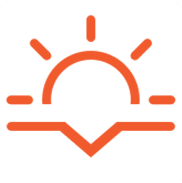
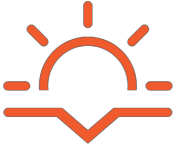
added js for images and removed dummy text

diff --git a/frontend/test/index.html b/frontend/test/index.html
@@ -9,19 +9,15 @@
 	<body>
 		<div class="main-top">
 			<div class="left">
-				<p class="temperature" id="temperature">14°C</p>
-				<p class="temperatur-feels-like" id="temperatur-feels-like">
-					Gefühlt: 14°C
-				</p>
-				<p class="weather-description" id="weather-description">
-					Teilweise bewölkt
-				</p>
-				<p class="humidity" id="humidity">Luftfeuchtigkeit: 10%</p>
-				<p class="cloudy" id="cloudy">Wolken: 10%</p>
-				<p class="uv" id="uv">UV: 100%</p>
+				<p class="temperature" id="temperature"></p>
+				<p class="temperatur-feels-like" id="temperatur-feels-like"></p>
+				<p class="weather-description" id="weather-description"></p>
+				<p class="humidity" id="humidity"></p>
+				<p class="cloudy" id="cloudy"></p>
+				<p class="uv" id="uv"></p>
 			</div>
 			<div class="right">
-				<h1 class="city" id="city">Hattingen</h1>
+				<h1 class="city" id="city"></h1>
 				<p class="last-update" id="last-update">
 					<svg
 						stroke="currentColor"
@@ -39,7 +35,6 @@
 							d="M1.7507,16.0022 C3.3517,20.0982 7.3367,23.0002 11.9997,23.0002 C18.0747,23.0002 22.9997,18.0752 22.9997,12.0002 M22.2497,7.9982 C20.6487,3.9012 16.6627,1.0002 11.9997,1.0002 C5.9247,1.0002 0.9997,5.9252 0.9997,12.0002 M8.9997,16.0002 L0.9997,16.0002 L0.9997,24.0002 M22.9997,0.0002 L22.9997,8.0002 L14.9997,8.0002"
 						></path>
 					</svg>
-					12:00
 				</p>
 				<p class="sunrise" id="sunrise">
 					<svg
@@ -62,7 +57,6 @@
 						<line x1="23" y1="22" x2="1" y2="22"></line>
 						<polyline points="8 6 12 2 16 6"></polyline>
 					</svg>
-					12:00
 				</p>
 				<p class="sunset" id="sunset">
 					<svg
@@ -85,12 +79,11 @@
 						<line x1="23" y1="22" x2="1" y2="22"></line>
 						<polyline points="16 5 12 9 8 5"></polyline>
 					</svg>
-					12:00
 				</p>
 			</div>
 		</div>
 		<script>
-			async function fetchText() {
+			async function fetchCurrentWeather() {
 				let response = await fetch('http://127.0.0.1:8000/current_weather');
 
 				console.log(response.status, response.statusText); // 200 OK
@@ -101,17 +94,45 @@
 					// convert var data to json object
 					data = JSON.parse(data);
 					console.log(data);
-					document.getElementById('city').innerHTML = data.city;
-					document.getElementById('temperature').innerHTML = data.temperature;
-					document.getElementById('temperatur-feels-like').innerHTML =
-						data.temperatur_feels_like;
-					document.getElementById('weather-description').innerHTML =
+					document.getElementById('city').textContent = data.city;
+					document.getElementById('temperature').textContent =
+						'Temperatur: ' + data.temperature + '°C';
+					document.getElementById('temperatur-feels-like').textContent =
+						'Gefühlt: ' + data.temperatur_feels_like + '°C';
+					document.getElementById('weather-description').textContent =
 						data.weather_description;
-					document.getElementById('humidity').innerHTML = data.humidity;
-					document.getElementById('cloudy').innerHTML = data.cloudy;
-					document.getElementById('last-update').innerHTML = data.last_update;
-					document.getElementById('sunrise').innerHTML = data.sunrise;
-					document.getElementById('sunset').innerHTML = data.sunset;
+					document.getElementById('humidity').textContent =
+						'Luftfeuchtigkeit: ' + data.humidity + '%';
+					document.getElementById('cloudy').textContent =
+						'Wolken: ' + data.cloudy + '%';
+					document.getElementById('last-update').textContent =
+						' ' + data.last_update;
+					document.getElementById('sunrise').textContent = ' ' + data.sunrise;
+					document.getElementById('sunset').textContent = ' ' + data.sunset;
+
+					var img = document.createElement('img');
+					img.src =
+						'C:/Users/Ludo/Desktop/weather forecast/resources/sun icons/sync.png';
+					var div = document.getElementById('last-update');
+					div.prepend(img);
+					img.style.height = '20px';
+					img.style.width = 'auto';
+
+					var img = document.createElement('img');
+					img.src =
+						'C:/Users/Ludo/Desktop/weather forecast/resources/sun icons/Ebene 2.png';
+					var div = document.getElementById('sunrise');
+					div.prepend(img);
+					img.style.height = 'auto';
+					img.style.width = '24px';
+
+					var img = document.createElement('img');
+					img.src =
+						'C:/Users/Ludo/Desktop/weather forecast/resources/sun icons/Ebene 1.png';
+					var div = document.getElementById('sunset');
+					div.prepend(img);
+					img.style.height = 'auto';
+					img.style.width = '24px';
 				}
 			}
 			async function fetchUv() {
@@ -125,34 +146,34 @@
 					// convert var data to json object
 					data = JSON.parse(data);
 					console.log(data);
-					document.getElementById('uv').innerHTML = data.uv;
+					document.getElementById('uv').textContent = 'UV Index: ' + data.uv;
 				}
 			}
-			fetchText();
+			fetchCurrentWeather();
 			fetchUv();
 		</script>
 
 		<div class="main-bottom">
 			<div class="day one">
-				<h1 class="day-pred" id="day_pred_1">Tag 1</h1>
-				<p class="date" id="date_1">1.1.22</p>
-				<p class="icon"><img id="icon_1" src="" alt="Icon" /></p>
-				<p class="temp-min" id="temp_min_1">TempMin</p>
-				<p class="temp-max" id="temp_max_1">TempMax</p>
+				<h1 class="day-pred" id="day_pred_1"></h1>
+				<p class="date" id="date_1"></p>
+				<img id="icon_1" src="" alt="" />
+				<p class="temp-min" id="temp_min_1"></p>
+				<p class="temp-max" id="temp_max_1"></p>
 			</div>
 			<div class="day two">
-				<h1 class="day-pred" id="day_pred_2">Tag 2</h1>
-				<p class="date" id="date_2">1.1.22</p>
-				<p class="icon"><img id="icon_2" src="" alt="Icon" /></p>
-				<p class="temp-min" id="temp_min_2">TempMin</p>
-				<p class="temp-max" id="temp_max_2">TempMax</p>
+				<h1 class="day-pred" id="day_pred_2"></h1>
+				<p class="date" id="date_2"></p>
+				<img id="icon_2" src="" alt="" />
+				<p class="temp-min" id="temp_min_2"></p>
+				<p class="temp-max" id="temp_max_2"></p>
 			</div>
 			<div class="day three">
-				<h1 class="day-pred" id="day_pred_3">Tag 3</h1>
-				<p class="date" id="date_3">1.1.22</p>
-				<p class="icon"><img id="icon_3" src="" alt="Icon" /></p>
-				<p class="temp-min" id="temp_min_3">TempMin</p>
-				<p class="temp-max" id="temp_max_3">TempMax</p>
+				<h1 class="day-pred" id="day_pred_3"></h1>
+				<p class="date" id="date_3"></p>
+				<img id="icon_3" src="" alt="" />
+				<p class="temp-min" id="temp_min_3"></p>
+				<p class="temp-max" id="temp_max_3"></p>
 			</div>
 			<div class="day four">
 				<h1 class="day-pred">Tag 4</h1>
@@ -170,7 +191,7 @@
 			</div>
 		</div>
 		<script>
-			async function fetchText() {
+			async function fetchForecastWeatherWeek() {
 				let response = await fetch(
 					'http://127.0.0.1:8000/forecast_weather_week'
 				);
@@ -183,27 +204,32 @@
 					// convert var data to json object
 					data = JSON.parse(data);
 					console.log(data);
-					document.getElementById('day_pred_1').innerHTML = data.day1.day;
-					document.getElementById('date_1').innerHTML = data.day1.date;
+					document.getElementById('day_pred_1').textContent = data.day1.day;
+					document.getElementById('date_1').textContent = data.day1.date;
 					document.getElementById('icon_1').src = data.day1.icon;
-					document.getElementById('temp_min_1').innerHTML = data.day1.temp_min;
-					document.getElementById('temp_max_1').innerHTML = data.day1.temp_max;
+					document.getElementById('temp_min_1').textContent =
+						data.day1.temp_min;
+					document.getElementById('temp_max_1').textContent =
+						data.day1.temp_max;
 
-					document.getElementById('day_pred_2').innerHTML = data.day2.day;
-					document.getElementById('date_2').innerHTML = data.day2.date;
+					document.getElementById('day_pred_2').textContent = data.day2.day;
+					document.getElementById('date_2').textContent = data.day2.date;
 					document.getElementById('icon_2').src = data.day2.icon;
-					console.log(data.day1.icon);
-					document.getElementById('temp_min_2').innerHTML = data.day2.temp_min;
-					document.getElementById('temp_max_2').innerHTML = data.day2.temp_max;
+					document.getElementById('temp_min_2').textContent =
+						data.day2.temp_min;
+					document.getElementById('temp_max_2').textContent =
+						data.day2.temp_max;
 
-					document.getElementById('day_pred_3').innerHTML = data.day3.day;
-					document.getElementById('date_3').innerHTML = data.day3.date;
+					document.getElementById('day_pred_3').textContent = data.day3.day;
+					document.getElementById('date_3').textContent = data.day3.date;
 					document.getElementById('icon_3').src = data.day3.icon;
-					document.getElementById('temp_min_3').innerHTML = data.day3.temp_min;
-					document.getElementById('temp_max_3').innerHTML = data.day3.temp_max;
+					document.getElementById('temp_min_3').textContent =
+						data.day3.temp_min;
+					document.getElementById('temp_max_3').textContent =
+						data.day3.temp_max;
 				}
 			}
-			fetchText();
+			fetchForecastWeatherWeek();
 		</script>
 		<div class="bottom"></div>
 	</body>
